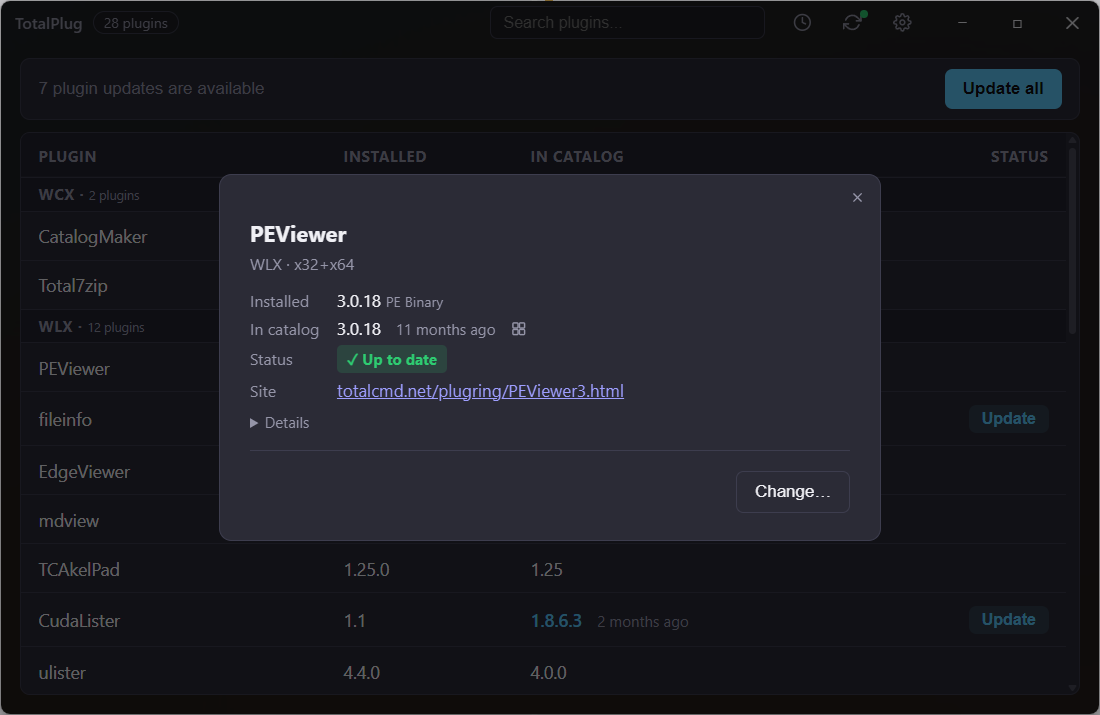
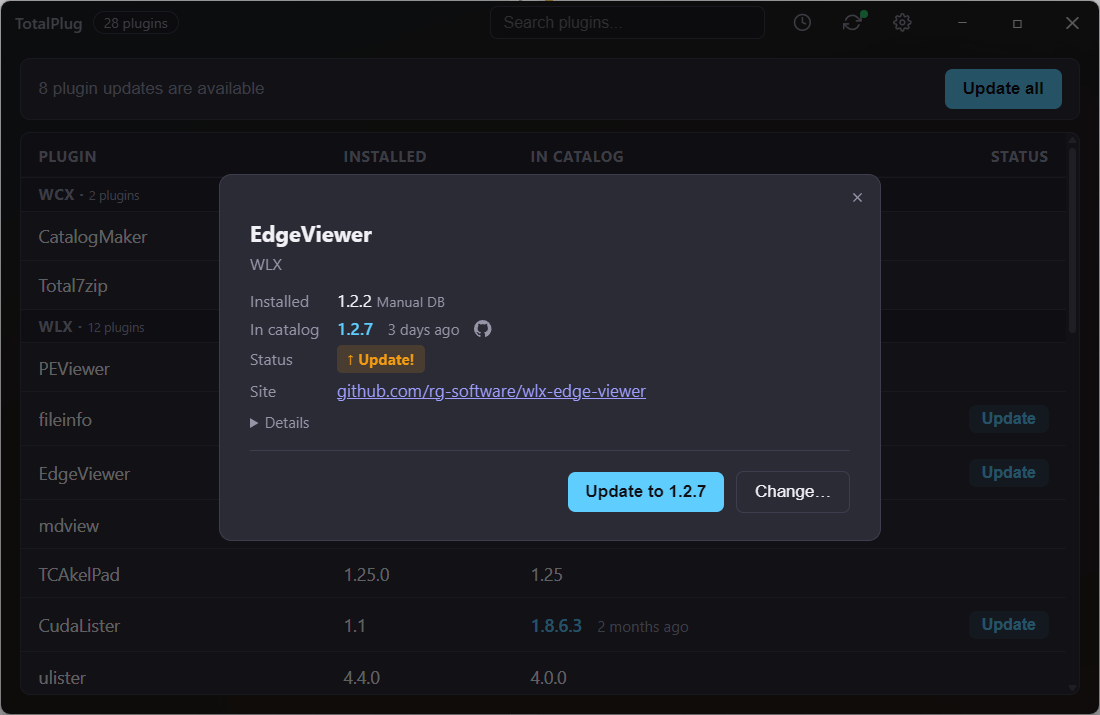
docs: show the card's update action in the screenshots
- recapture both details panels on a plugin with a newer catalog version, so the
  card carries its update-to-version action and the Update! status instead of
  only the Change button
- name both actions in the alt text and match the update count the main window
  shows

diff --git a/README.md b/README.md
@@ -167,15 +167,15 @@ The same window in both themes, with a scanned install of 28 plugins.
 
 ### Light
 
-| Main window                                                                                                                                                                                                                                                                                                                        | Plugin card                                                                                                                                                                                                                                                                                                                                          | About                                                                                                                                                                                                      |
-| ---------------------------------------------------------------------------------------------------------------------------------------------------------------------------------------------------------------------------------------------------------------------------------------------------------------------------------- | ---------------------------------------------------------------------------------------------------------------------------------------------------------------------------------------------------------------------------------------------------------------------------------------------------------------------------------------------------- | ---------------------------------------------------------------------------------------------------------------------------------------------------------------------------------------------------------- |
-| ![The plugin audit table: rows under a heading per plugin type (WCX · 2 plugins, WLX · 12 plugins), each row with its installed and catalog versions, a bar above offering to update all eight available updates at once, and an Update button only on the rows whose catalog version is newer](screenshots/light/main_window.png) | ![A plugin card opened over the dimmed table, so the type headings stay visible behind it: installed version with its detection confidence, catalog version with its release date and the source glyph beside it, status, site link, a collapsed details block, and the Change button that opens the override editor](screenshots/light/details.png) | ![The About panel inside Settings: the running version, a check for a newer release, links to the plugin catalog and the releases page, and a line on what the app sends out](screenshots/light/about.png) |
+| Main window                                                                                                                                                                                                                                                                                                                        | Plugin card                                                                                                                                                                                                                                                                                                                                                                                          | About                                                                                                                                                                                                      |
+| ---------------------------------------------------------------------------------------------------------------------------------------------------------------------------------------------------------------------------------------------------------------------------------------------------------------------------------- | ---------------------------------------------------------------------------------------------------------------------------------------------------------------------------------------------------------------------------------------------------------------------------------------------------------------------------------------------------------------------------------------------------- | ---------------------------------------------------------------------------------------------------------------------------------------------------------------------------------------------------------- |
+| ![The plugin audit table: rows under a heading per plugin type (WCX · 2 plugins, WLX · 12 plugins), each row with its installed and catalog versions, a bar above offering to update all eight available updates at once, and an Update button only on the rows whose catalog version is newer](screenshots/light/main_window.png) | ![A plugin card opened over the dimmed table, so the type headings stay visible behind it: installed version with its detection confidence, catalog version with its release date and the source glyph beside it, an Update! status, site link, a collapsed details block, and the two actions below — update to that version, or Change to open the override editor](screenshots/light/details.png) | ![The About panel inside Settings: the running version, a check for a newer release, links to the plugin catalog and the releases page, and a line on what the app sends out](screenshots/light/about.png) |
 
 ### Dark
 
-| Main window                                                                                                                 | Plugin card                                                                                                                                               | About                                                            |
-| --------------------------------------------------------------------------------------------------------------------------- | --------------------------------------------------------------------------------------------------------------------------------------------------------- | ---------------------------------------------------------------- |
-| ![The same plugin table in the dark theme, type headings and the update-all bar included](screenshots/dark/main_window.png) | ![The plugin card in the dark theme, opened over the dimmed table, with the same Change button below the collapsed details](screenshots/dark/details.png) | ![The About panel in the dark theme](screenshots/dark/about.png) |
+| Main window                                                                                                                 | Plugin card                                                                                                                                             | About                                                            |
+| --------------------------------------------------------------------------------------------------------------------------- | ------------------------------------------------------------------------------------------------------------------------------------------------------- | ---------------------------------------------------------------- |
+| ![The same plugin table in the dark theme, type headings and the update-all bar included](screenshots/dark/main_window.png) | ![The plugin card in the dark theme, opened over the dimmed table, with the same two actions below the collapsed details](screenshots/dark/details.png) | ![The About panel in the dark theme](screenshots/dark/about.png) |
 
 ---
 
